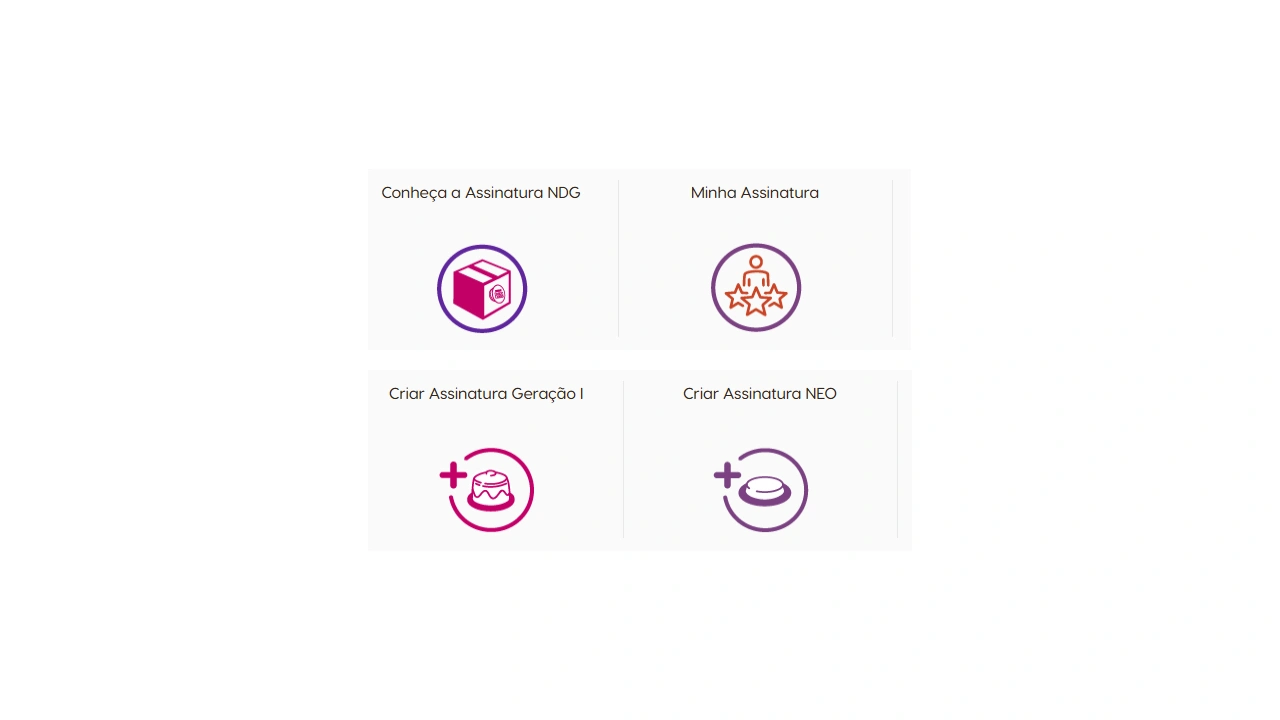
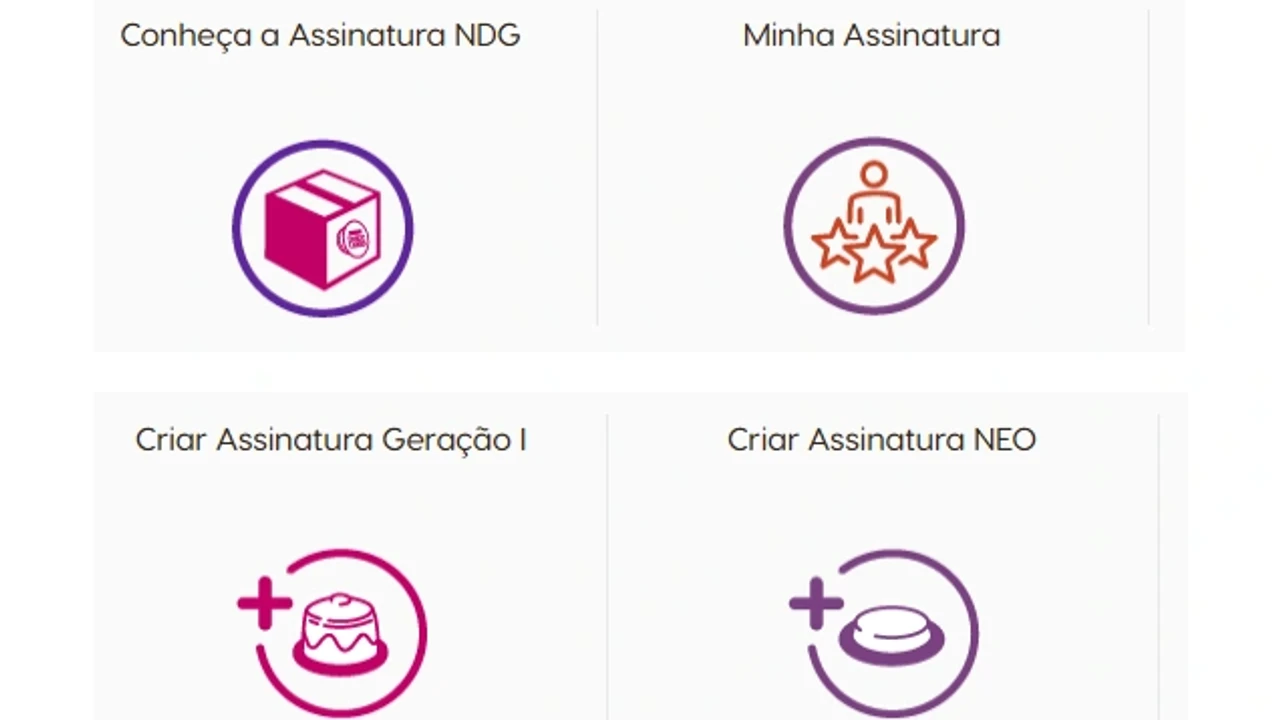
fix(review): align panoramic image support and frequency illustration

diff --git a/src/lib/content/types.ts b/src/lib/content/types.ts
@@ -237,7 +237,7 @@ export interface ContentSectionImage {
   src: string;
   alt: string;
   caption?: string;
-  objectFit?: 'cover' | 'contain' | 'portrait' | 'wide';
+  objectFit?: 'cover' | 'contain' | 'portrait' | 'wide' | 'panoramic' | 'square';
 }
 
 /** Modelo legado real de contentSections em src/lib/data.ts. */
@@ -251,7 +251,7 @@ export interface ContentSection {
   image?: string | ContentSectionImage;
   imageAlt?: string;
   imageCaption?: string;
-  imageFit?: 'cover' | 'contain' | 'portrait' | 'wide' | 'square';
+  imageFit?: 'cover' | 'contain' | 'portrait' | 'wide' | 'panoramic' | 'square';
   images?: ContentSectionImage[];
   links?: ContentSectionLink[];
   couponTiers?: { code: string; discount: string; minPurchase: string }[];

diff --git a/src/lib/data.ts b/src/lib/data.ts
@@ -252,7 +252,7 @@ export interface Review {
     image?: string | ContentSectionImage;
     imageAlt?: string;
     imageCaption?: string;
-    imageFit?: 'cover' | 'contain' | 'portrait' | 'wide';
+    imageFit?: 'cover' | 'contain' | 'portrait' | 'wide' | 'panoramic' | 'square';
     images?: ContentSectionImage[];
     links?: ContentSectionLink[];
     widget?: string;
